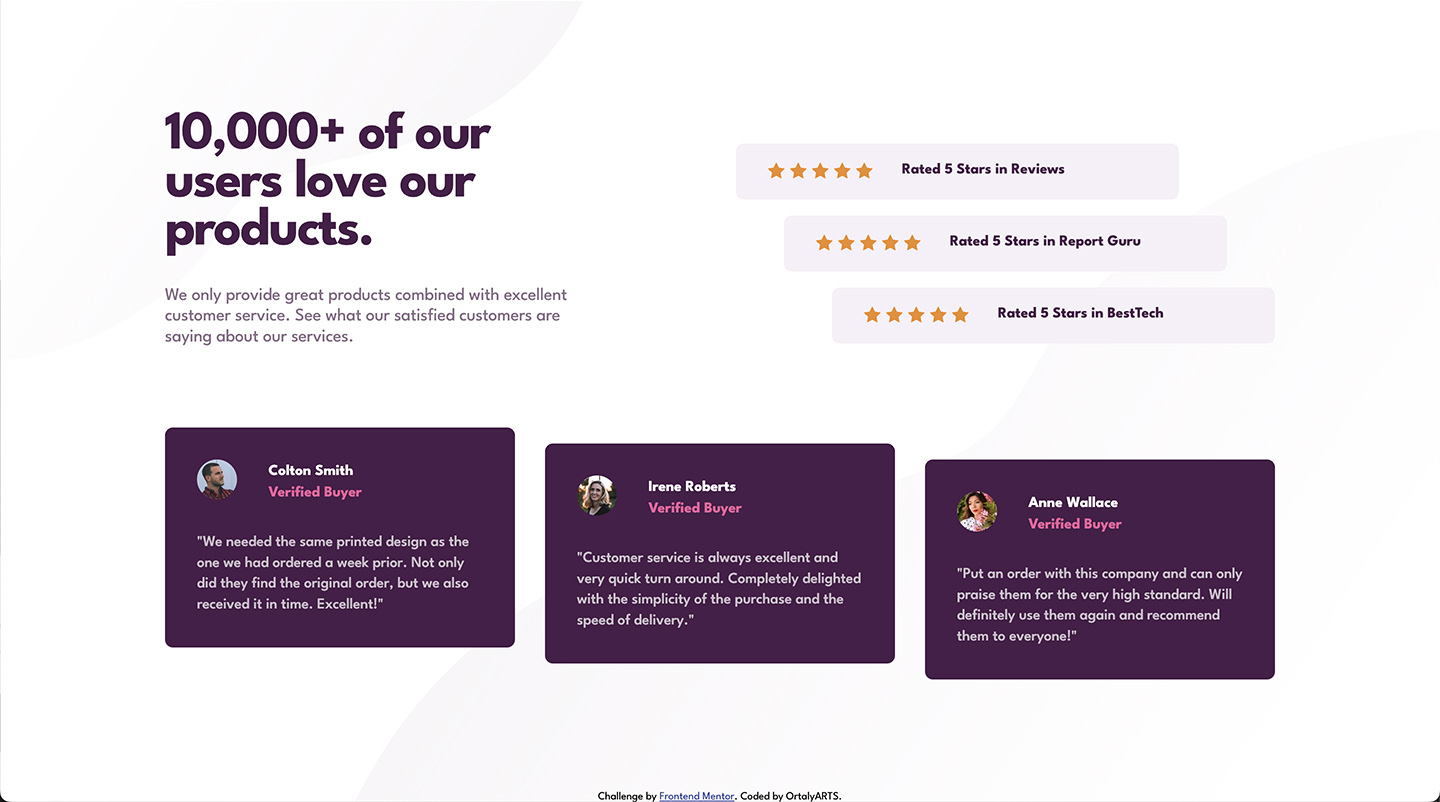
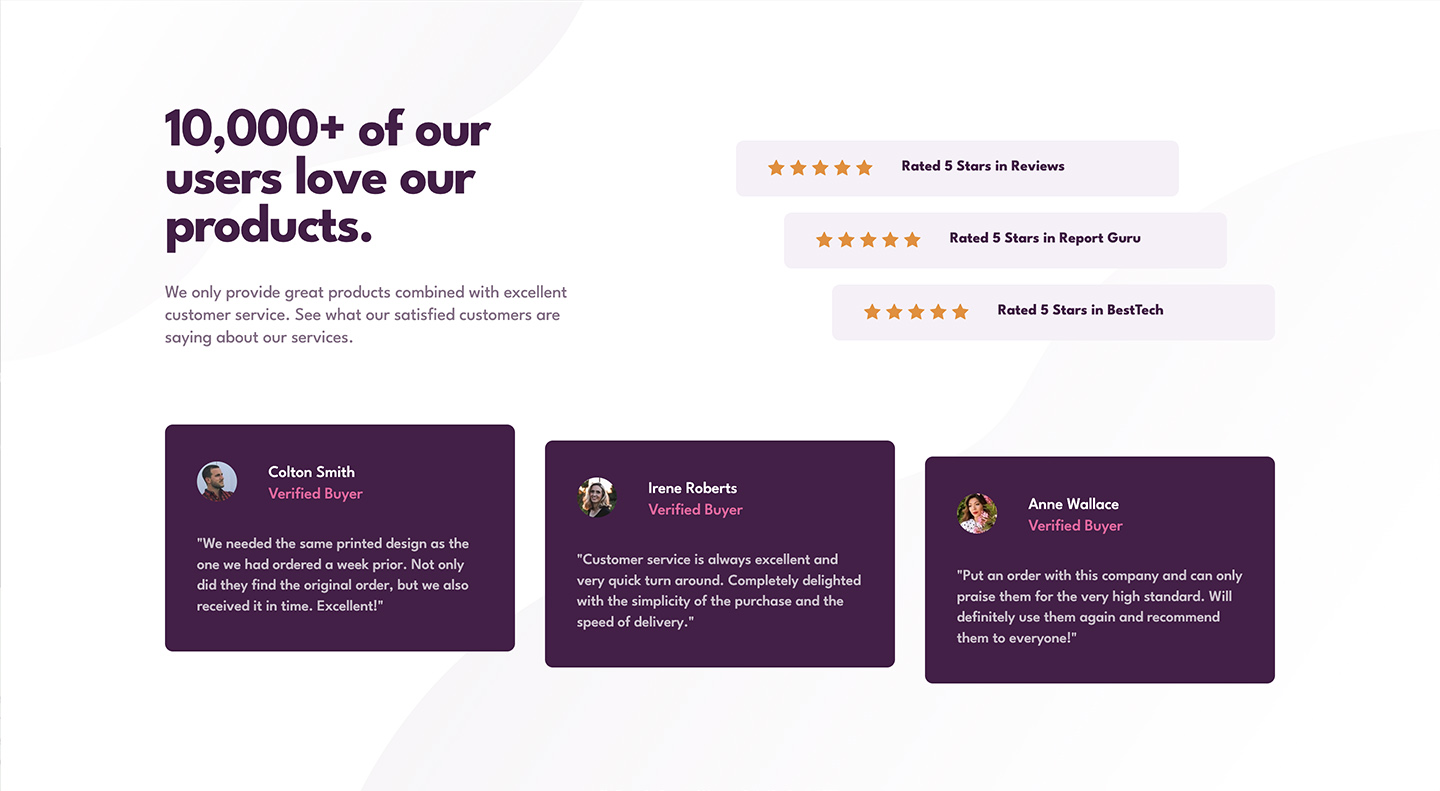
readme

diff --git a/css/style.css b/css/style.css
@@ -82,7 +82,7 @@ h1 {
 }
 .hero-text p {
   font-size:1.1rem;
-  line-height:1.3rem;
+  line-height:1.4rem;
   color:var(--color1);
   font-weight:400;
   padding:0;
@@ -127,7 +127,7 @@ aside {
 .testimonials article {
   background: var(--color4);
   border-radius:0.5rem;
-  padding: 2rem;
+  padding: 2.3rem 2rem 2.1rem 2rem;
 }
 
 .testimonial-autor {
@@ -147,14 +147,14 @@ aside {
 }
 .testimonial-autor h2 {
   color: white;
-  font-weight:700;
-  font-size:0.938rem;
+  font-weight:500;
+  font-size:1rem;
   line-height:1.5rem;
 }
 .testimonial-autor p {
   color: var(--color3);
-  font-weight:700;
-  font-size:0.938rem;
+  font-weight:500;
+  font-size:1rem;
   line-height:1.2rem;
 }
 .testimonials .quote {

diff --git a/README.md b/README.md
@@ -10,13 +10,8 @@ This is a solution to the [Social proof section challenge on Frontend Mentor](ht
   - [Links](#links)
 - [My process](#my-process)
   - [Built with](#built-with)
-  - [What I learned](#what-i-learned)
-  - [Continued development](#continued-development)
-  - [Useful resources](#useful-resources)
-- [Author](#author)
-- [Acknowledgments](#acknowledgments)
 
-**Note: Delete this note and update the table of contents based on what sections you keep.**
+- [Author](#author)
 
 ## Overview
 
@@ -28,20 +23,14 @@ Users should be able to:
 
 ### Screenshot
 
-![](./screenshot.jpg)
+![](images/screenshot.jpg)
 
-Add a screenshot of your solution. The easiest way to do this is to use Firefox to view your project, right-click the page and select "Take a Screenshot". You can choose either a full-height screenshot or a cropped one based on how long the page is. If it's very long, it might be best to crop it.
 
-Alternatively, you can use a tool like [FireShot](https://getfireshot.com/) to take the screenshot. FireShot has a free option, so you don't need to purchase it. 
-
-Then crop/optimize/edit your image however you like, add it to your project, and update the file path in the image above.
-
-**Note: Delete this note and the paragraphs above when you add your screenshot. If you prefer not to add a screenshot, feel free to remove this entire section.**
 
 ### Links
 
-- Solution URL: [Add solution URL here](https://your-solution-url.com)
-- Live Site URL: [Add live site URL here](https://your-live-site-url.com)
+- Solution URL: (https://github.com/ortalyarts/profile-card-component)
+- Live Site URL: (https://frontendmentor-social-proof-section-six.vercel.app/)
 
 ## My process
 
@@ -49,62 +38,13 @@ Then crop/optimize/edit your image however you like, add it to your project, and
 
 - Semantic HTML5 markup
 - CSS custom properties
-- Flexbox
 - CSS Grid
-- Mobile-first workflow
-- [React](https://reactjs.org/) - JS library
-- [Next.js](https://nextjs.org/) - React framework
-- [Styled Components](https://styled-components.com/) - For styles
 
-**Note: These are just examples. Delete this note and replace the list above with your own choices**
 
-### What I learned
-
-Use this section to recap over some of your major learnings while working through this project. Writing these out and providing code samples of areas you want to highlight is a great way to reinforce your own knowledge.
-
-To see how you can add code snippets, see below:
-
-```html
-<h1>Some HTML code I'm proud of</h1>
-```
-```css
-.proud-of-this-css {
-  color: papayawhip;
-}
-```
-```js
-const proudOfThisFunc = () => {
-  console.log('🎉')
-}
-```
-
-If you want more help with writing markdown, we'd recommend checking out [The Markdown Guide](https://www.markdownguide.org/) to learn more.
-
-**Note: Delete this note and the content within this section and replace with your own learnings.**
-
-### Continued development
-
-Use this section to outline areas that you want to continue focusing on in future projects. These could be concepts you're still not completely comfortable with or techniques you found useful that you want to refine and perfect.
-
-**Note: Delete this note and the content within this section and replace with your own plans for continued development.**
-
-### Useful resources
-
-- [Example resource 1](https://www.example.com) - This helped me for XYZ reason. I really liked this pattern and will use it going forward.
-- [Example resource 2](https://www.example.com) - This is an amazing article which helped me finally understand XYZ. I'd recommend it to anyone still learning this concept.
-
-**Note: Delete this note and replace the list above with resources that helped you during the challenge. These could come in handy for anyone viewing your solution or for yourself when you look back on this project in the future.**
 
 ## Author
 
-- Website - [Add your name here](https://www.your-site.com)
-- Frontend Mentor - [@yourusername](https://www.frontendmentor.io/profile/yourusername)
-- Twitter - [@yourusername](https://www.twitter.com/yourusername)
+- OrtalyARTS
+- Frontend Mentor - [@ortalyarts](https://www.frontendmentor.io/profile/ortalyarts)
 
-**Note: Delete this note and add/remove/edit lines above based on what links you'd like to share.**
 
-## Acknowledgments
-
-This is where you can give a hat tip to anyone who helped you out on this project. Perhaps you worked in a team or got some inspiration from someone else's solution. This is the perfect place to give them some credit.
-
-**Note: Delete this note and edit this section's content as necessary. If you completed this challenge by yourself, feel free to delete this section entirely.**
